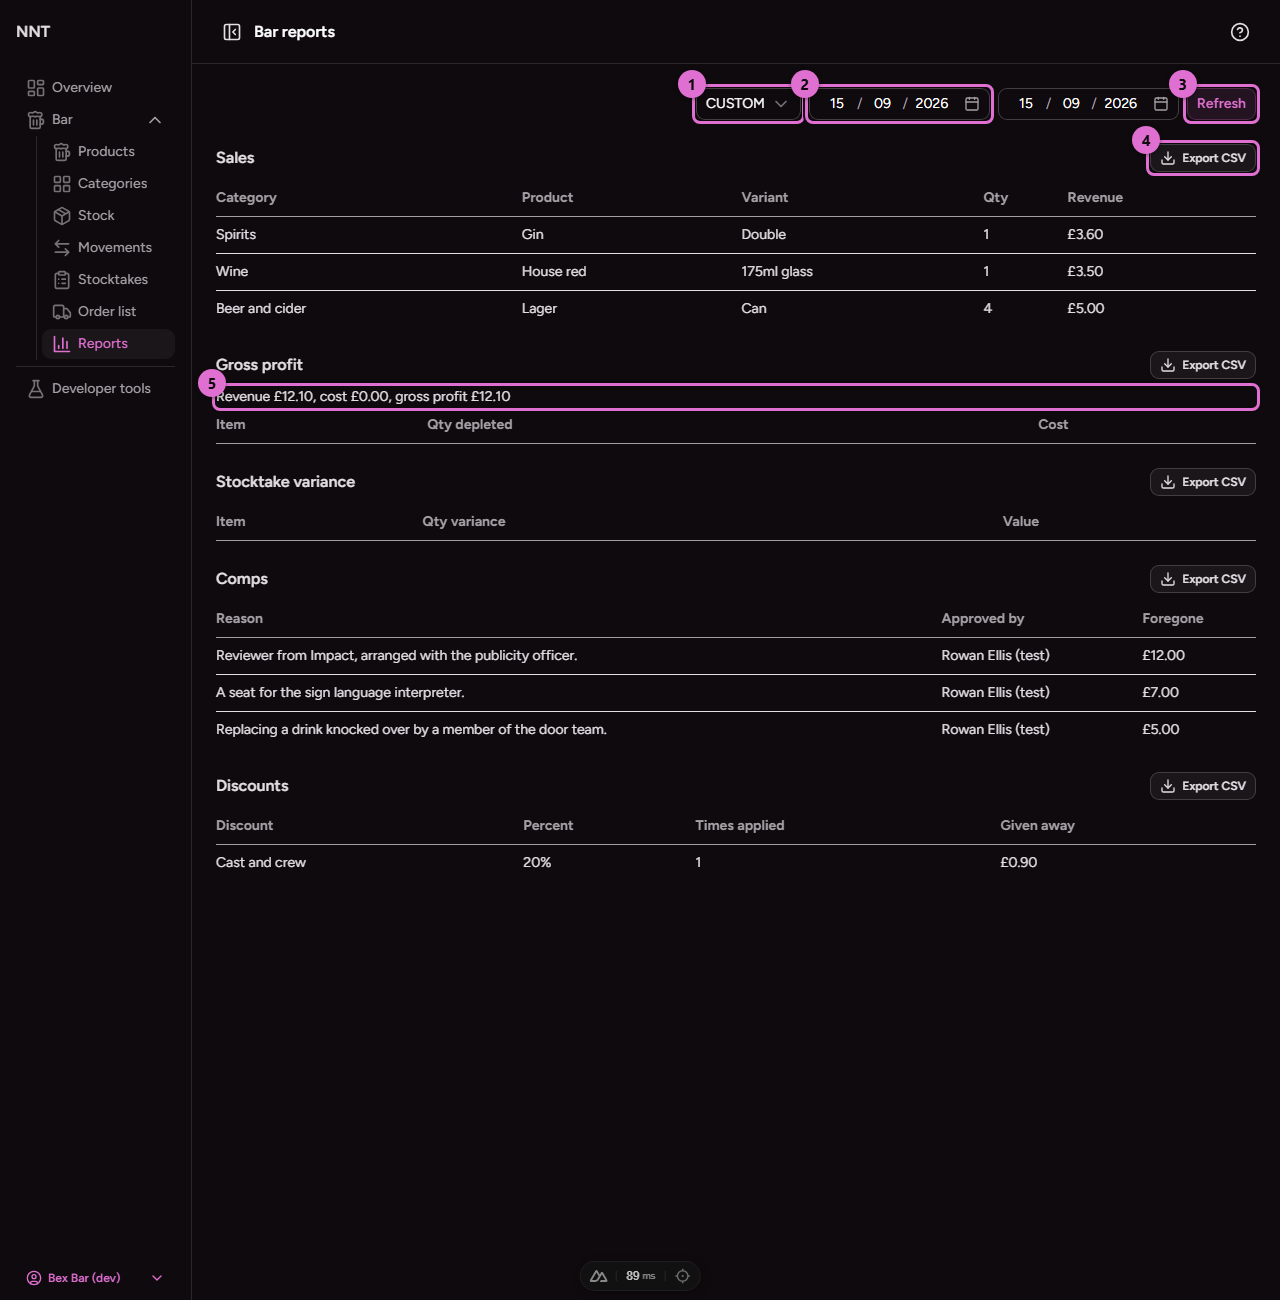
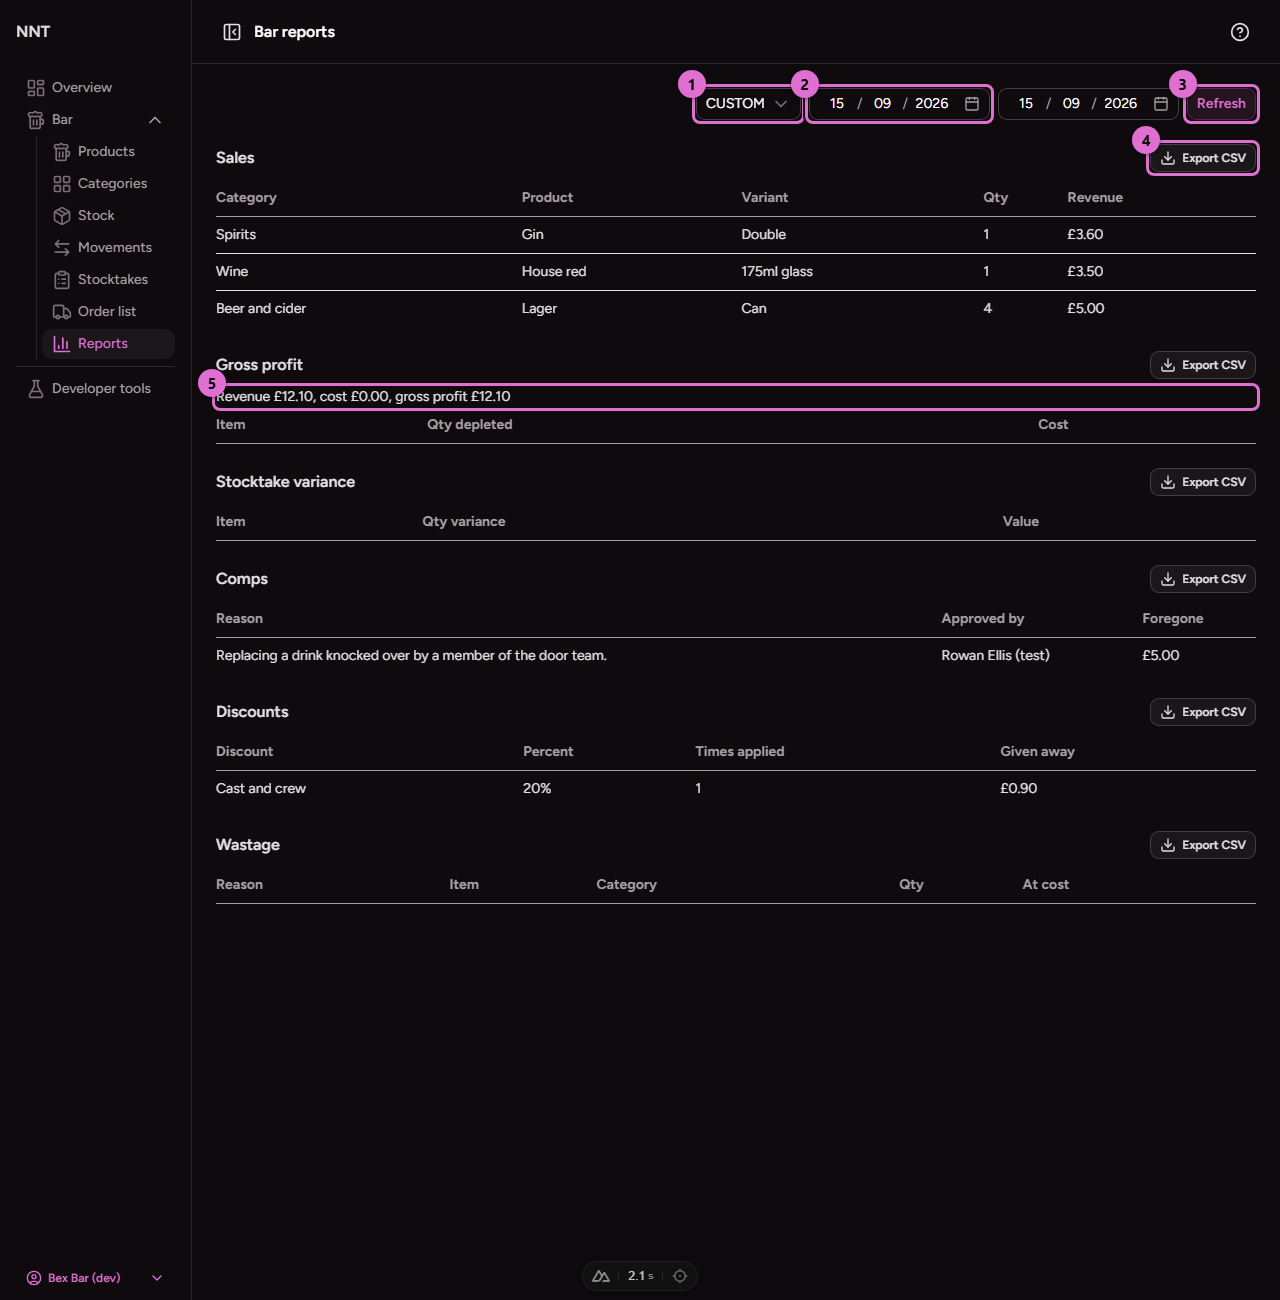
The bar report says what was wasted, by reason, item and category (0079, F-204)
A query over movements that already exist: 0079 fixes the vocabulary, so grouping by reason
is possible at all, and most of F-204 criterion 2 comes with it. Wastage runs on its own
clock, having no ledger entry, and a wastage a reversal names is absent because it did not
happen.

diff --git a/server/utils/bar-reports.ts b/server/utils/bar-reports.ts
@@ -8,7 +8,7 @@ import { showNightBounds } from '#shared/utils/show-night'
 import { envelope, offsetFor } from '#shared/utils/pagination'
 import type { SQL } from 'drizzle-orm'
 import type { Page } from '#shared/utils/pagination'
-import type { BarReport, CompRow, DiscountRow, GpReport, GpRow, ReportPeriodInput, SalesRow, VarianceRow } from '#shared/utils/bar-reports'
+import type { BarReport, CompRow, DiscountRow, GpReport, GpRow, ReportPeriodInput, SalesRow, VarianceRow, WastageRow } from '#shared/utils/bar-reports'
 
 // Every figure is a query over the ledger and the movement history, run fresh for the period
 // asked for; nothing here is a stored aggregate (F-119 criterion 4).
@@ -172,6 +172,25 @@ export async function compsReport(fromAt: number, toAt: number, paging: ReportPa
   return envelope(items, counted?.total ?? 0, paging.page, paging.pageSize)
 }
 
+// Wastage is typed in on the stock screen and has no ledger entry, so `created_at` is the only
+// clock it has. A wastage a REVERSAL names never happened, and no money moves to keep in step.
+export function wastageQuery(fromAt: number, toAt: number): SQL {
+  return sql`
+    SELECT m.reason AS reason, i.name AS itemName, coalesce(i.category, '') AS categoryName,
+           -sum(m.qty) AS qtyWasted, round(-sum(m.qty) * ${unitCostPence}) AS costPence
+    FROM stock_movements m
+    JOIN bar_items i ON i.id = m.item_id
+    WHERE m.kind = 'WASTAGE' AND m.created_at >= ${fromAt} AND m.created_at < ${toAt}
+      AND NOT EXISTS (SELECT 1 FROM stock_movements r WHERE r.reverses_id = m.id)
+    GROUP BY m.reason, i.id
+    ORDER BY costPence DESC, qtyWasted DESC, i.name COLLATE NOCASE
+  `
+}
+
+export async function wastageReport(fromAt: number, toAt: number): Promise<WastageRow[]> {
+  return db.all<WastageRow>(wastageQuery(fromAt, toAt))
+}
+
 export function discountsQuery(fromAt: number, toAt: number): SQL {
   return sql`
     SELECT l.discount_id AS discountId, max(l.discount_percent) AS percent,
@@ -192,12 +211,13 @@ export async function discountsReport(fromAt: number, toAt: number): Promise<Dis
 
 export async function barReport(period: ReportPeriodInput, paging: ReportPaging): Promise<BarReport> {
   const { fromAt, toAt } = resolveReportPeriod(period)
-  const [sales, gp, variance, comps, discounts] = await Promise.all([
+  const [sales, gp, variance, comps, discounts, wastage] = await Promise.all([
     salesReport(fromAt, toAt),
     grossProfitReport(fromAt, toAt),
     stocktakeVarianceReport(fromAt, toAt, paging),
     compsReport(fromAt, toAt, paging),
     discountsReport(fromAt, toAt),
+    wastageReport(fromAt, toAt),
   ])
-  return { fromAt, toAt, sales, gp, variance, comps, discounts }
+  return { fromAt, toAt, sales, gp, variance, comps, discounts, wastage }
 }

diff --git a/app/pages/bar/reports.vue b/app/pages/bar/reports.vue
@@ -1,5 +1,5 @@
 <script setup lang="ts">
-import { saysMoney } from '#shared/utils/bar'
+import { says, saysMoney } from '#shared/utils/bar'
 import { REPORT_PERIOD_KINDS, saysPageOf } from '#shared/utils/bar-reports'
 import type { BarReport, ReportPeriodInput, ReportPeriodKind, ReportSection } from '#shared/utils/bar-reports'
 
@@ -140,7 +140,7 @@ function exportUrl(section: ReportSection): string {
       <section
         v-for="section in ([
           ['sales', 'Sales'], ['gp', 'Gross profit'], ['variance', 'Stocktake variance'],
-          ['comps', 'Comps'], ['discounts', 'Discounts'],
+          ['comps', 'Comps'], ['discounts', 'Discounts'], ['wastage', 'Wastage'],
         ] as const)"
         :key="section[0]"
         class="space-y-2"
@@ -263,6 +263,31 @@ function exportUrl(section: ReportSection): string {
               <td class="py-2">
                 {{ row.reason }}
               </td><td>{{ row.approvedByName }}</td><td>{{ saysMoney(row.foregonePence) }}</td>
+            </tr>
+          </tbody>
+        </table>
+
+        <table
+          v-else-if="section[0] === 'wastage'"
+          class="w-full text-sm"
+        >
+          <thead>
+            <tr class="border-b text-left text-muted">
+              <th class="py-2">
+                Reason
+              </th><th>Item</th><th>Category</th><th>Qty</th><th>At cost</th>
+            </tr>
+          </thead>
+          <tbody>
+            <tr
+              v-for="row in data.wastage"
+              :key="`${row.reason}-${row.itemName}`"
+              class="border-b last:border-0"
+            >
+              <td class="py-2">
+                {{ says(row.reason) }}
+              </td><td>{{ row.itemName }}</td><td>{{ row.categoryName }}</td>
+              <td>{{ row.qtyWasted }}</td><td>{{ saysMoney(row.costPence) }}</td>
             </tr>
           </tbody>
         </table>

diff --git a/scripts/seed/bar.ts b/scripts/seed/bar.ts
@@ -496,7 +496,7 @@ function seedStock(target: SeedTarget, items: Map<string, string>, keeper: strin
       item_id: items.get('house-red')!,
       qty: -750,
       kind: 'WASTAGE',
-      reason: 'A bottle went over behind the bar during the get-in.',
+      reason: 'BREAKAGE',
       actor_id: keeper,
       created_at: now - 5 * DAY,
     }))
@@ -510,7 +510,7 @@ function seedStock(target: SeedTarget, items: Map<string, string>, keeper: strin
       item_id: items.get('crisps')!,
       qty: -6,
       kind: 'ADJUST',
-      reason: 'Six bags out of date and binned.',
+      reason: 'OUT_OF_DATE',
       actor_id: keeper,
       created_at: now - 4 * DAY,
     }))
@@ -527,7 +527,7 @@ function seedStock(target: SeedTarget, items: Map<string, string>, keeper: strin
       item_id: items.get('lemonade')!,
       qty: -2000,
       kind: 'ADJUST',
-      reason: 'Recorded against the wrong bottle.',
+      reason: 'COUNT_CORRECTION',
       actor_id: keeper,
       created_at: now - 3 * DAY,
     }))
@@ -536,7 +536,7 @@ function seedStock(target: SeedTarget, items: Map<string, string>, keeper: strin
       item_id: items.get('lemonade')!,
       qty: 2000,
       kind: 'REVERSAL',
-      reason: 'Reversing the miscount above.',
+      reason: 'COUNT_CORRECTION',
       reverses_id: reversedId,
       actor_id: keeper,
       created_at: now - 3 * DAY + 600,

diff --git a/server/api/admin/bar/reports/export.get.ts b/server/api/admin/bar/reports/export.get.ts
@@ -2,7 +2,7 @@ import { z } from 'zod'
 import { toCsv } from '#server/utils/csv'
 import { reportPeriodForm, REPORT_EXPORT_PAGE_ROWS, REPORT_SECTIONS } from '#shared/utils/bar-reports'
 import { formatLondon } from '#shared/utils/london'
-import { saysMoney } from '#shared/utils/bar'
+import { says, saysMoney } from '#shared/utils/bar'
 
 const query = reportPeriodForm.and(z.object({
   section: z.enum(REPORT_SECTIONS),
@@ -47,6 +47,13 @@ export default defineEventHandler(async (event) => {
           when: formatLondon(new Date(row.happenedAt * 1000), { dateStyle: 'short', timeStyle: 'short' }),
           reason: row.reason ?? '', approvedBy: row.approvedByName, foregone: saysMoney(row.foregonePence),
         })), pages: comps.pages }
+      }
+      case 'wastage': {
+        const rows = await wastageReport(fromAt, toAt)
+        return { rows: rows.map(row => ({
+          reason: says(row.reason), item: row.itemName, category: row.categoryName,
+          qtyWasted: row.qtyWasted, cost: saysMoney(row.costPence),
+        })), pages: 1 }
       }
       case 'discounts': {
         const rows = await discountsReport(fromAt, toAt)

diff --git a/shared/utils/bar-reports.ts b/shared/utils/bar-reports.ts
@@ -22,7 +22,7 @@ export const reportPeriodForm = z.discriminatedUnion('kind', [
 
 export type ReportPeriodInput = z.output<typeof reportPeriodForm>
 
-export const REPORT_SECTIONS = ['sales', 'gp', 'variance', 'comps', 'discounts'] as const
+export const REPORT_SECTIONS = ['sales', 'gp', 'variance', 'comps', 'discounts', 'wastage'] as const
 export type ReportSection = (typeof REPORT_SECTIONS)[number]
 
 // Comps and variance are one row per comp and per adjusted stocktake line, so a season is
@@ -81,6 +81,16 @@ export interface DiscountRow {
   discountedPence: number
 }
 
+// One row per reason per item, so the catalogue bounds it the way the gross profit table is
+// bounded. Detail is never grouped by: it says which bottle, not which kind of loss (0079).
+export interface WastageRow {
+  reason: string
+  itemName: string
+  categoryName: string
+  qtyWasted: number
+  costPence: number
+}
+
 export interface BarReport {
   fromAt: number
   toAt: number
@@ -89,4 +99,5 @@ export interface BarReport {
   variance: Page<VarianceRow>
   comps: Page<CompRow>
   discounts: DiscountRow[]
+  wastage: WastageRow[]
 }

diff --git a/tests/integration/bar-reports.test.ts b/tests/integration/bar-reports.test.ts
@@ -1,6 +1,6 @@
 import { describe, expect, test } from 'bun:test'
 import { boundStatement, createTestDatabase, rows } from '#tests/helpers/database'
-import { compsCountQuery, compsQuery, gpDepletionQuery, gpRevenueQuery, varianceCountQuery, varianceQuery } from '#server/utils/bar-reports'
+import { compsCountQuery, compsQuery, gpDepletionQuery, gpRevenueQuery, varianceCountQuery, varianceQuery, wastageQuery } from '#server/utils/bar-reports'
 import type { TestDatabase } from '#tests/helpers/database'
 import type { SQL } from 'drizzle-orm'
 

diff --git a/content/docs/05.bar/7.reports.md b/content/docs/05.bar/7.reports.md
@@ -59,6 +59,9 @@ Every period runs on the London calendar.
   foregone. Comps given at the box office belong to the box office's own reports, not this one.
 - **Discounts**: each discount, its percentage, how many times it was applied and what was given
   away.
+- **Wastage**: what was written off in the period, grouped by reason, item and category, in units
+  and at cost. The reasons come from a fixed list the till and the stock screen share, so a season
+  adds up; a wastage that has been reversed is not in it, because it did not happen.
 
 ## When a section is longer than the screen
 
@@ -74,7 +77,7 @@ figure after **of** is the whole period. Choose a shorter period, or export.
 3. The file opens in a new tab or downloads. Money is formatted as pounds in the file; the
    comps and variance exports also carry when each row happened.
 
-Sales, gross profit and discounts export whole. Comps and variance export 1000 rows at a time,
+Sales, gross profit, discounts and wastage export whole. Comps and variance export 1000 rows at a time,
 and when there is more than one page the file is named for the page it holds, for example
 `bar-comps-report-page-1-of-3.csv`. The next page is the same link with `&page=2` on the end.
 
